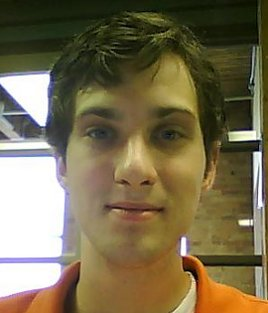
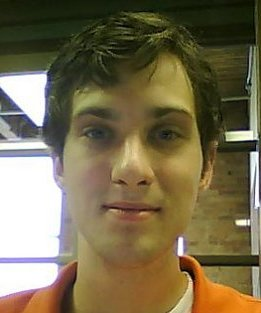
enhanced the header and footer navigations

diff --git a/public/stylesheets/custom.css b/public/stylesheets/custom.css
@@ -23,6 +23,7 @@ h1 {
 
 #twitter {
   padding-top: 60px;
+  float: right;
 }
 
 h2 {
@@ -319,8 +320,9 @@ height:256px;
 }
 
 #my-image {
-  padding-top: 10px;
-  padding-bottom: 10px;
+  margin-top: 5px;
+  margin-bottom: 5px;
+  border: 3px solid #fff;
 }
 
 .video {
@@ -359,8 +361,13 @@ height:256px;
 
 #footer-navigation {
   text-align: center;
-  margin-top: 3px;
-  margin-bottom: 3px;
+  margin-top: 5px;
+  margin-bottom: 4px;
+}
+
+#footer-navigation-wrapper {
+  border-top: 1px solid #aafdaa;
+  border-bottom: 1px solid #aafdaa;
 }
 
 #footer-navigation li {
@@ -369,19 +376,28 @@ height:256px;
   display: inline;
 }
 
+#navigation-glass {
+  position: absolute;
+  margin-top: -2px;
+}
+
 #header-navigation {
-  font: normal normal normal 1.0em/normal Georgia, Times, serif;
-  text-align: center;
+  margin-top: -17px;
+  position: absolute;
+}
+
+#header-navigation ul {
   float: right;
+  position: relative;
 }
 
 #header-navigation li {
   list-style-type: none;
-  padding-right: 10px;
-  padding-left: 10px;
-  border-right: 1px solid #aaa;
-  border-left: 1px solid #aaa;
   display: inline;
+}
+
+.header-navigation-button {
+  position: relative;
 }
 
 #copyright {

diff --git a/public/javascripts/navigation.js b/public/javascripts/navigation.js
@@ -1,0 +1,24 @@
+// Place your application-specific JavaScript functions and classes here
+// This file is automatically included by javascript_include_tag :defaults
+
+$(document).ready(function() {
+
+  initializeGlass();
+
+  function initializeGlass(){
+    $("#navigation-glass").stop().animate({left: $("#footer-navigation li").position().left-18, width: $("#footer-navigation li").width()+35, height: 32});
+  }
+
+  $(".header-navigation-button").hover(function() {
+    $(this).stop().animate({top: 33});
+  });
+
+  $(".header-navigation-button").mouseout(function() {
+    $(this).stop().animate({top: 0});
+  });
+
+  $("#footer-navigation li").hover(function () {
+    var hoveredLink = $(this);
+    $("#navigation-glass").stop().animate({left: hoveredLink.position().left-18, width: hoveredLink.width()+35, height: 32});
+  });
+});
